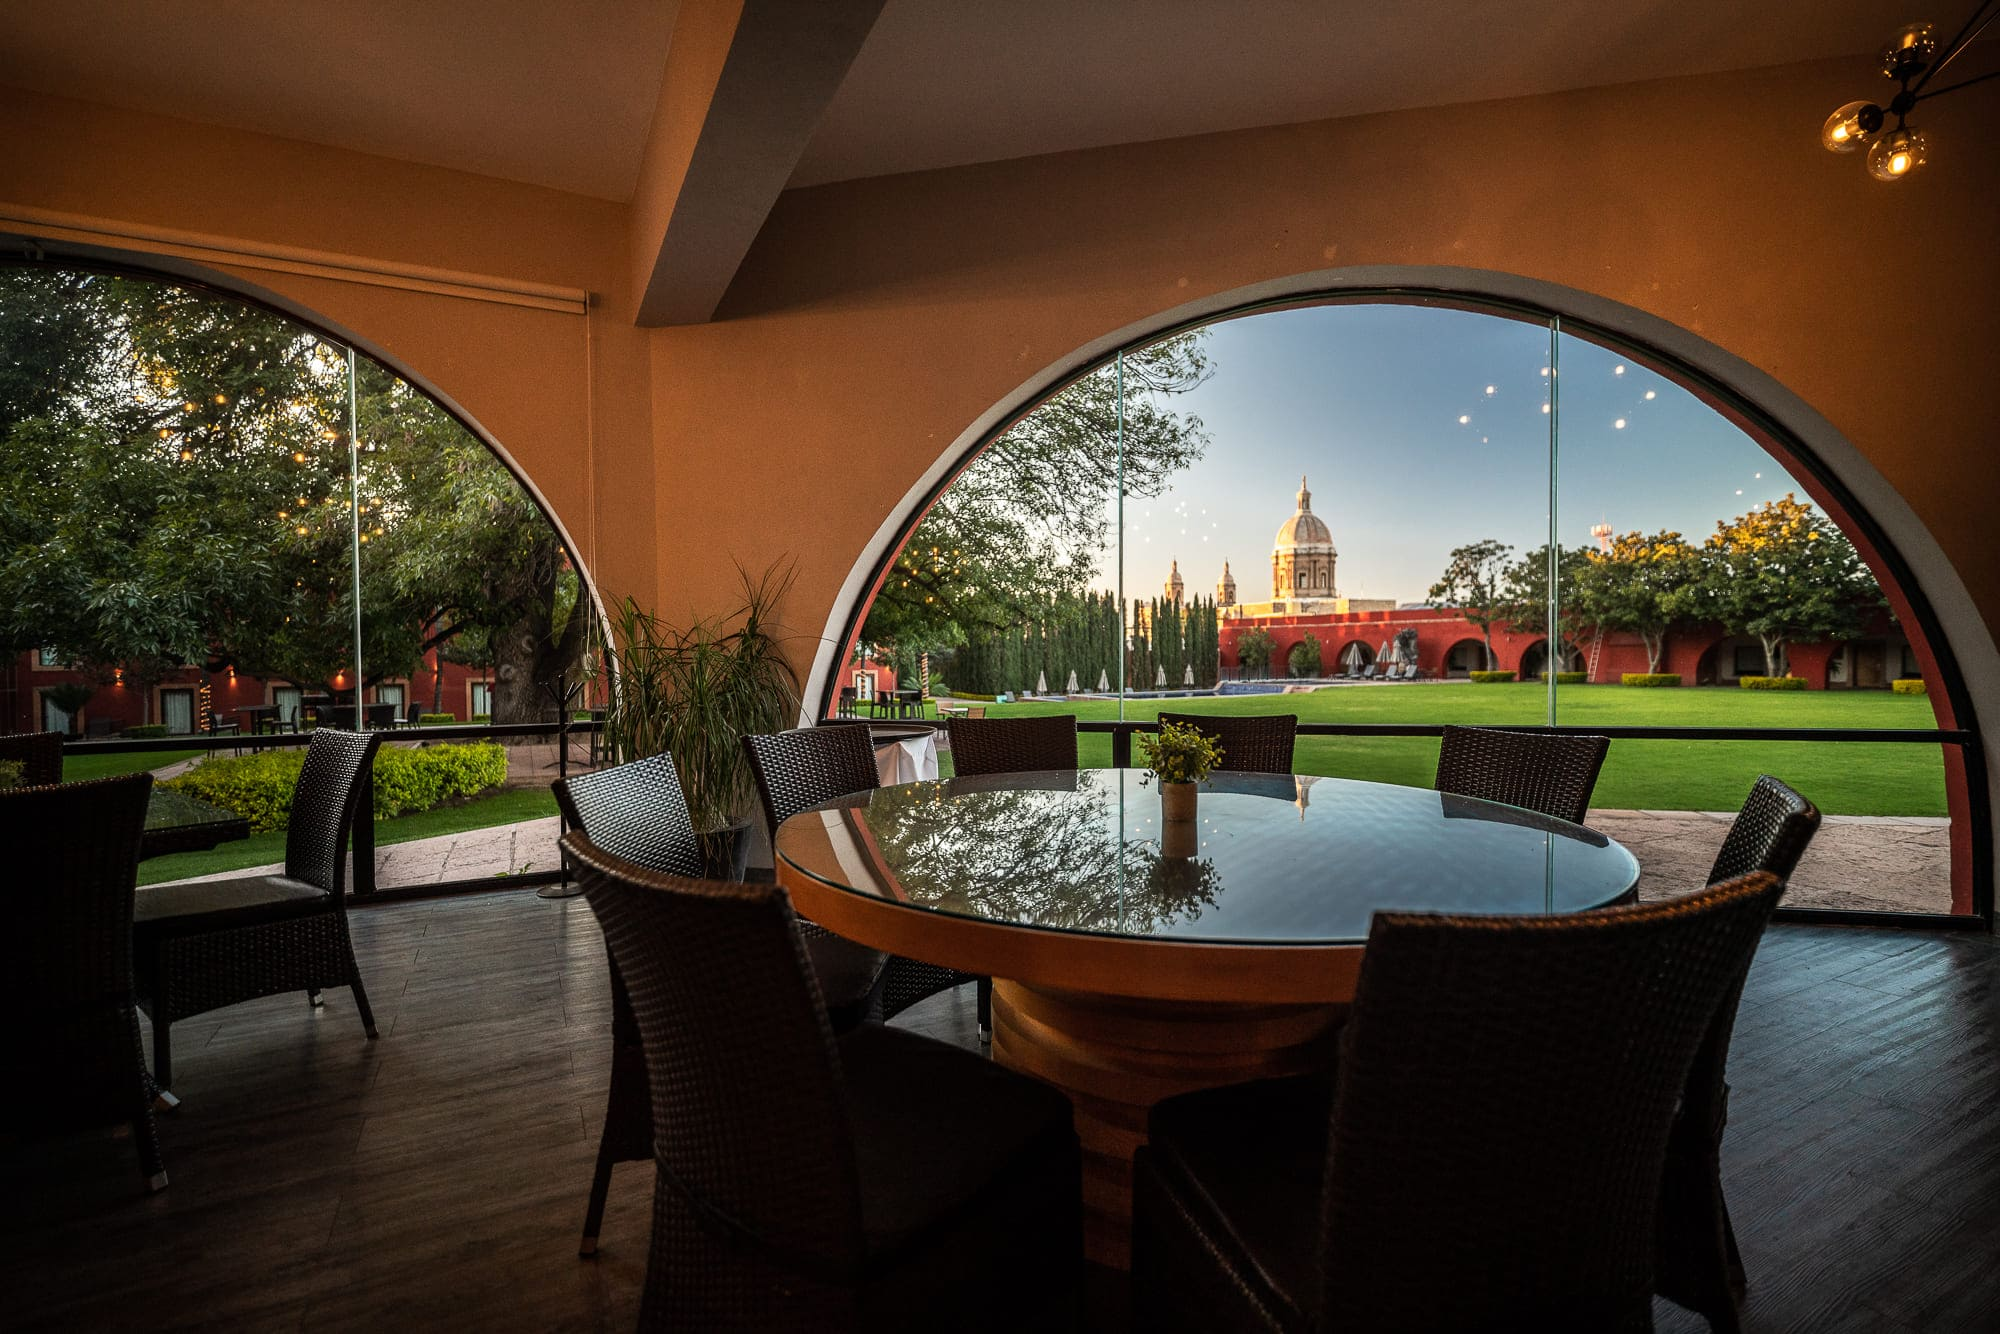
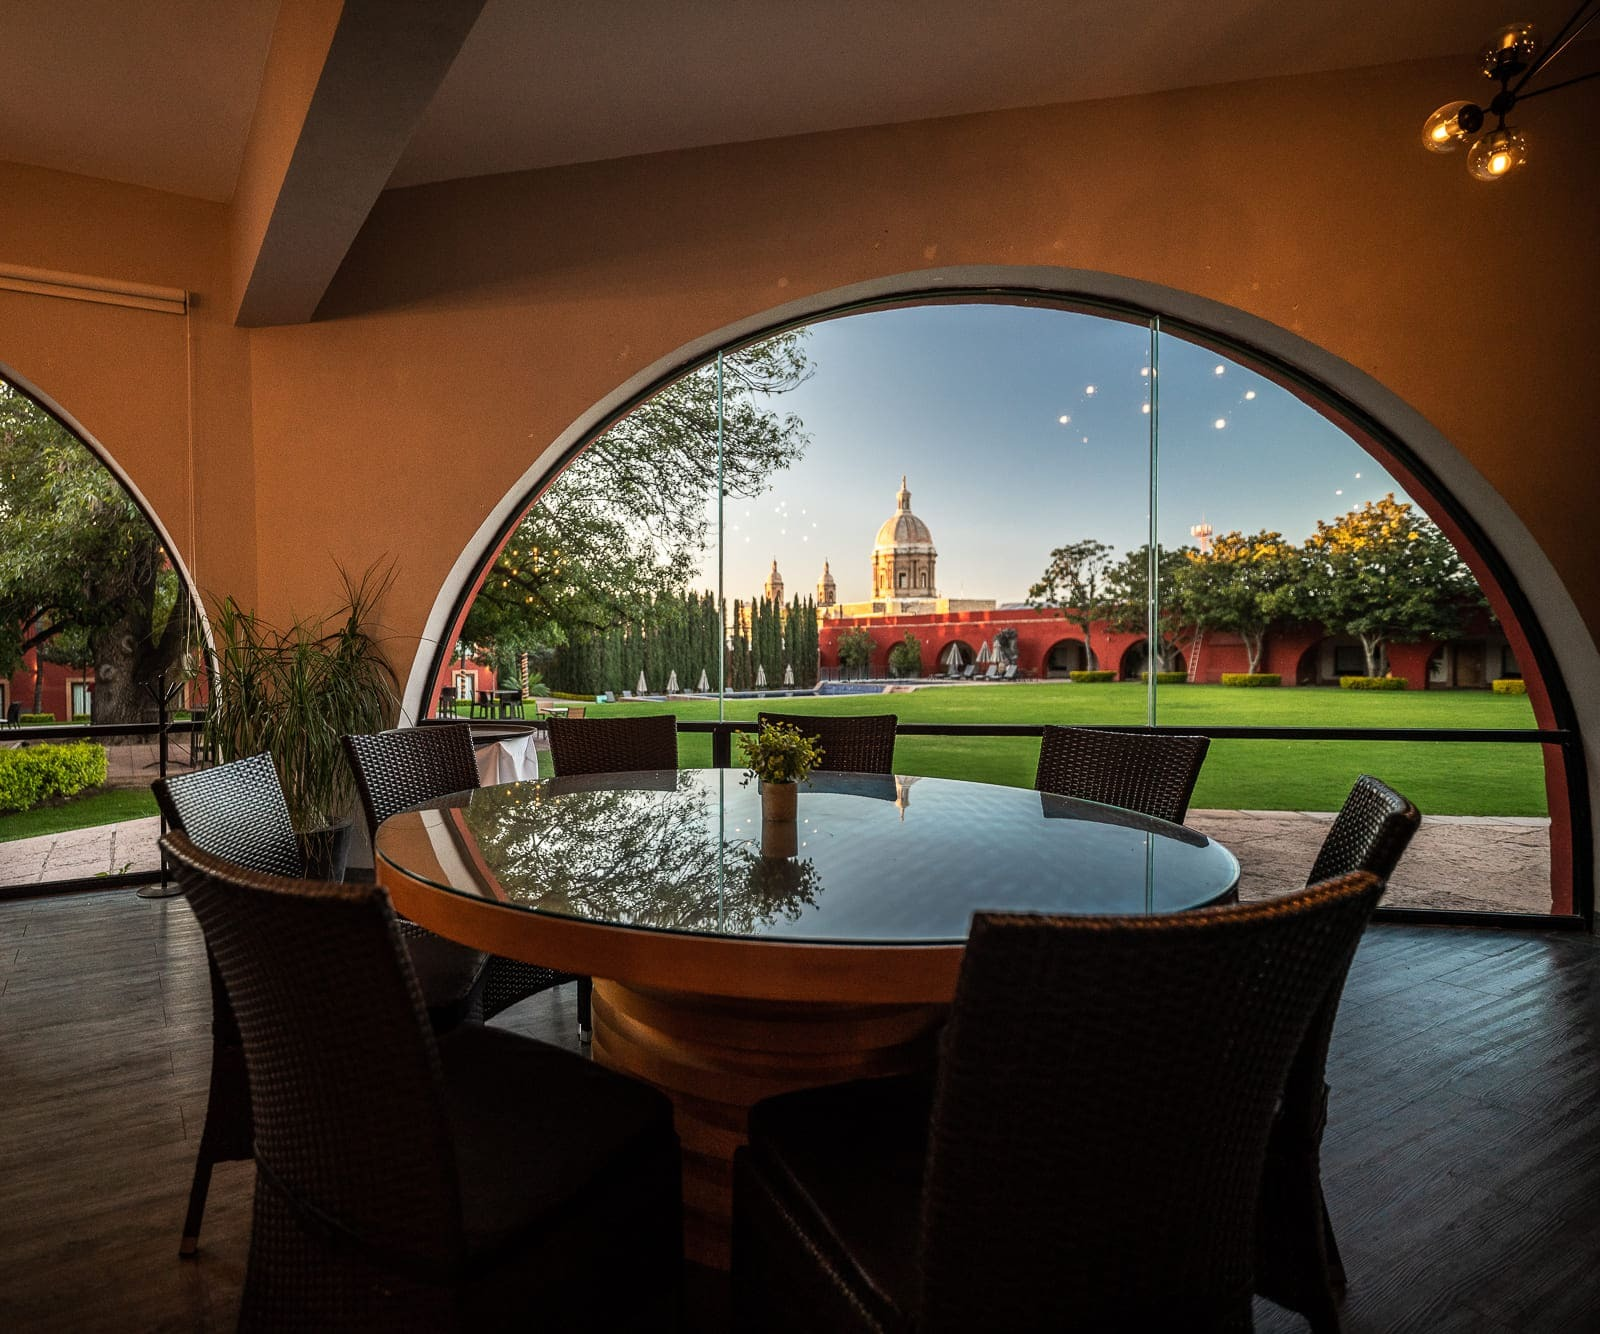
cambios 29 de enero

diff --git a/restaurant.html b/restaurant.html
@@ -406,7 +406,7 @@
       <div class="support-company-area section-padding">
         <div class="container">
           <div class="row align-items-center justify-content-between">
-            <div class="col-xl-5 col-lg-6 col-md-10">
+            <div class="col-xl-8 col-lg-6 col-md-10">
               <div class="support-location-img mb-40">
                 <img
                   src="assets/HOTELDIEZMO/DIEZMO-6.jpg"
@@ -436,7 +436,7 @@
                 </div>
               </div>
             </div>
-            <div class="col-xl-3 col-lg-3 col-md-4">
+            <!-- <div class="col-xl-3 col-lg-3 col-md-4">
               <div class="about-right-img d-none d-xl-block">
                 <img
                   src="assets/HOTELDIEZMO/GYM/D2-3.png"
@@ -446,7 +446,7 @@
                   onload="pagespeed.CriticalImages.checkImageForCriticality(this);"
                 />
               </div>
-            </div>
+            </div> -->
           </div>
         </div>
       </div>
@@ -456,7 +456,7 @@
           <div class="row justify-content-center">
             <div class="col-xl-9 col-lg-8">
               <div class="section-tittle mb-60 text-center">
-                <h2>Servicios e Instalaciones del El Diezmo Hotel</h2>
+                <h2>Servicios e Instalaciones</h2>
 
                 <p>
                   Contamos con vigilancia las 24 horas y un estacionamiento
@@ -466,26 +466,20 @@
 
                 <ul>
                   <li>
-                    <strong>Habitaciones:</strong> sencillas y dobles con amplio espacio. Más de 50 m², baño amplio.
+                    <strong>Habitaciones:</strong> sencillas y dobles con amplio
+                    espacio. Más de 50 m², baño amplio.
                   </li>
                   <li><strong>Alberca:</strong> Con paneles solares.</li>
-                  <li><strong>Gimnasio:</strong> Caminadoras LifeStyle
+                  <li><strong>Gimnasio:</strong> Caminadoras LifeStyle</li>
+                  <li>
+                    <strong>Restaurante:</strong> Horario de atención de 06:00
+                    am a 10:00 pm
                   </li>
                   <li>
-                    <strong>Restaurante:</strong> Horario de atención de 06:00 am a 10:00 pm
+                    <strong>Salones ejecutivos y para eventos sociales </strong>
                   </li>
-                  <li>
-                    <strong>Salones ejecutivos y para eventos sociales
-                    </strong> 
-                  </li>
-                  <li>
-                    <strong>Cancha de padel</strong> al aire libre
-                  </li>
-                  <li>
-                    <strong>Cancha de pickleball:
-                    </strong>  Próximamente 
-                  </li>
-
+                  <li><strong>Cancha de padel</strong> al aire libre</li>
+                  <li><strong>Cancha de pickleball: </strong> Próximamente</li>
                 </ul>
                 <!-- <a href="#" class="tittle-btn mt-15">Find a Room For You</a> -->
               </div>
@@ -499,7 +493,7 @@
                     <div class="col-xl-6 col-lg-6 col-md-6 p-0">
                       <div class="features-img">
                         <img
-                          src="assets/HOTELDIEZMO/RESTAURANTE/DIEZMO-8-redimensionada.jpg"
+                          src="assets/Fotos al inicio /diezmo br-33.jpg"
                           alt=""
                           data-pagespeed-url-hash="1872558913"
                           onload="pagespeed.CriticalImages.checkImageForCriticality(this);"
@@ -514,7 +508,9 @@
                           >
                         </h3>
                         <p>
-                          Ubicado estratégicamente entre los parques industriales más importantes de México y a solo 35 minutos de la ciudad de Querétaro,
+                          Ubicado estratégicamente entre los parques
+                          industriales más importantes de México y a solo 35
+                          minutos de la ciudad de Querétaro.
                         </p>
                         <!-- <a href="#" class="btn_01">View Project</a> -->
                       </div>
@@ -576,9 +572,9 @@
                 <div class="guest-contents">
                   <h3><a href="#">Salones ejecutivos </a></h3>
                   <p>
-                    Nuestros Salones ejecutivos cuentan con mobiliario, iluminación y
-                    una amplia mesa de trabajo para que puedas concentrarte en
-                    tus tareas.
+                    Nuestros Salones ejecutivos cuentan con mobiliario,
+                    iluminación y una amplia mesa de trabajo para que puedas
+                    concentrarte en tus tareas.
                   </p>
                 </div>
               </div>
@@ -592,10 +588,10 @@
                   onload="pagespeed.CriticalImages.checkImageForCriticality(this);"
                 />
                 <div class="guest-contents guest-contents2">
-                  <h3><a href="#">Amenidades</a></h3>
+                  <h3><a href="#">Restaurante</a></h3>
                 </div>
                 <div class="guest-contents">
-                  <h3><a href="#">Amenidades</a></h3>
+                  <h3><a href="#">Restaurante</a></h3>
                   <p>
                     En nuestro restaurante, cada plato es una obra de arte,
                     elaborado con ingredientes frescos y de temporada. Déjate

diff --git a/index.html b/index.html
@@ -436,15 +436,16 @@
     </header>
     <main>
       <div class="slider-area hero-bg1 hero-overly">  
-        <div class="single-slider slider-height1 d-flex align-items-center">
+        <div class="single-slider slider-height1 d-flex align-items-center"> 
           <div class="container">
-            <div class="row justify-content-center">
-              <div class="col-xl-7 col-lg-11">
-                <div class="hero-caption pt-10">
-                  <h1>Su seguridad es nuestra prioridad</h1>
-                </div>
-              </div>
+            
+        <div class="row justify-content-center">
+          <div class="col-xl-7 col-lg-11">
+            <div class="hero-caption pt-10">
+          <h1>Su seguridad es nuestra prioridad</h1>
             </div>
+          </div>
+        </div>
           </div>
         </div>
       </div>
@@ -558,7 +559,7 @@
       <div class="support-company-area section-padding">
         <div class="container">
           <div class="row align-items-center justify-content-between">
-            <div class="col-xl-5 col-lg-6 col-md-10">
+            <div class="col-xl-8 col-lg-6 col-md-10">
               <div class="support-location-img mb-40">
                 <img
                   src="assets/HOTELDIEZMO/DIEZMO-6.jpg"
@@ -588,7 +589,7 @@
                 </div>
               </div>
             </div>
-            <div class="col-xl-3 col-lg-3 col-md-4">
+            <!-- <div class="col-xl-3 col-lg-3 col-md-4">
               <div class="about-right-img d-none d-xl-block">
                 <img
                   src="assets/HOTELDIEZMO/GYM/D2-3.png"
@@ -598,7 +599,7 @@
                   onload="pagespeed.CriticalImages.checkImageForCriticality(this);"
                 />
               </div>
-            </div>
+            </div> -->
           </div>
         </div>
       </div>
@@ -786,7 +787,7 @@
           <div class="row justify-content-center">
             <div class="col-xl-9 col-lg-8">
               <div class="section-tittle mb-60 text-center">
-                <h2>Servicios e Instalaciones del El Diezmo Hotel</h2>
+                <h2>Servicios e Instalaciones</h2>
 
                 <p>
                   Contamos con vigilancia las 24 horas y un estacionamiento
@@ -829,7 +830,7 @@
                     <div class="col-xl-6 col-lg-6 col-md-6 p-0">
                       <div class="features-img">
                         <img
-                          src="assets/HOTELDIEZMO/RESTAURANTE/DIEZMO-8-redimensionada.jpg"
+                          src="assets/Fotos al inicio /diezmo br-33.jpg"
                           alt=""
                           data-pagespeed-url-hash="1872558913"
                           onload="pagespeed.CriticalImages.checkImageForCriticality(this);"
@@ -844,7 +845,7 @@
                           >
                         </h3>
                         <p>
-                          Ubicado estratégicamente entre los parques industriales más importantes de México y a solo 35 minutos de la ciudad de Querétaro,
+                          Ubicado estratégicamente entre los parques industriales más importantes de México y a solo 35 minutos de la ciudad de Querétaro.
                         </p>
                         <!-- <a href="#" class="btn_01">View Project</a> -->
                       </div>
@@ -922,7 +923,7 @@
                   onload="pagespeed.CriticalImages.checkImageForCriticality(this);"
                 />
                 <div class="guest-contents guest-contents2">
-                  <h3><a href="#">Amenidades</a></h3>
+                  <h3><a href="#">Restaurante</a></h3>
                 </div>
                 <div class="guest-contents">
                   <h3><a href="#">Restaurante</a></h3>

diff --git a/assets/css/A.style.css.pagespeed.cf.FJhlcspkRa.css b/assets/css/A.style.css.pagespeed.cf.FJhlcspkRa.css
@@ -1100,14 +1100,17 @@ hr {
   }
 }
 @media (max-width: 575px) {
-  .slider-height3 {
+  .slider-height3 { 
     height: 350px;
   }
 }
 .hero-bg1 {
-  background-image: url("../Fotos al inicio /resized/diezmo br-39.jpg");
+  background-image: url("../Fotos al inicio /diezmo\ br-39.jpg");
   background-size: cover;
   background-repeat: no-repeat;
+  background-position: center;
+  height: 100vh; /* O el tamaño deseado */
+  width: 100%; /* Para que ocupe el ancho completo */
 }
 .slider-area .hero-caption {
   text-align: center;
@@ -1593,9 +1596,11 @@ hr {
   display: flex;
 }
 .services-area2 .single-services2 .features-img img {
-  width: 100%;
+  width: auto;
   height: 520px;
-  margin-left: 20px;
+  display: block;
+  margin: 0 auto;
+
 }
 @media only screen and (min-width: 576px) and (max-width: 767px) {
   .services-area2 .single-services2 .features-img img {

diff --git a/rooms.html b/rooms.html
@@ -735,10 +735,10 @@
                   onload="pagespeed.CriticalImages.checkImageForCriticality(this);"
                 />
                 <div class="guest-contents guest-contents2">
-                  <h3><a href="#">Amenidades</a></h3>
+                  <h3><a href="#">Restaurante</a></h3>
                 </div>
                 <div class="guest-contents">
-                  <h3><a href="#">Amenidades</a></h3>
+                  <h3><a href="#">Restaurante</a></h3>
                   <p>
                     En nuestro restaurante, cada plato es una obra de arte,
                     elaborado con ingredientes frescos y de temporada. Déjate
